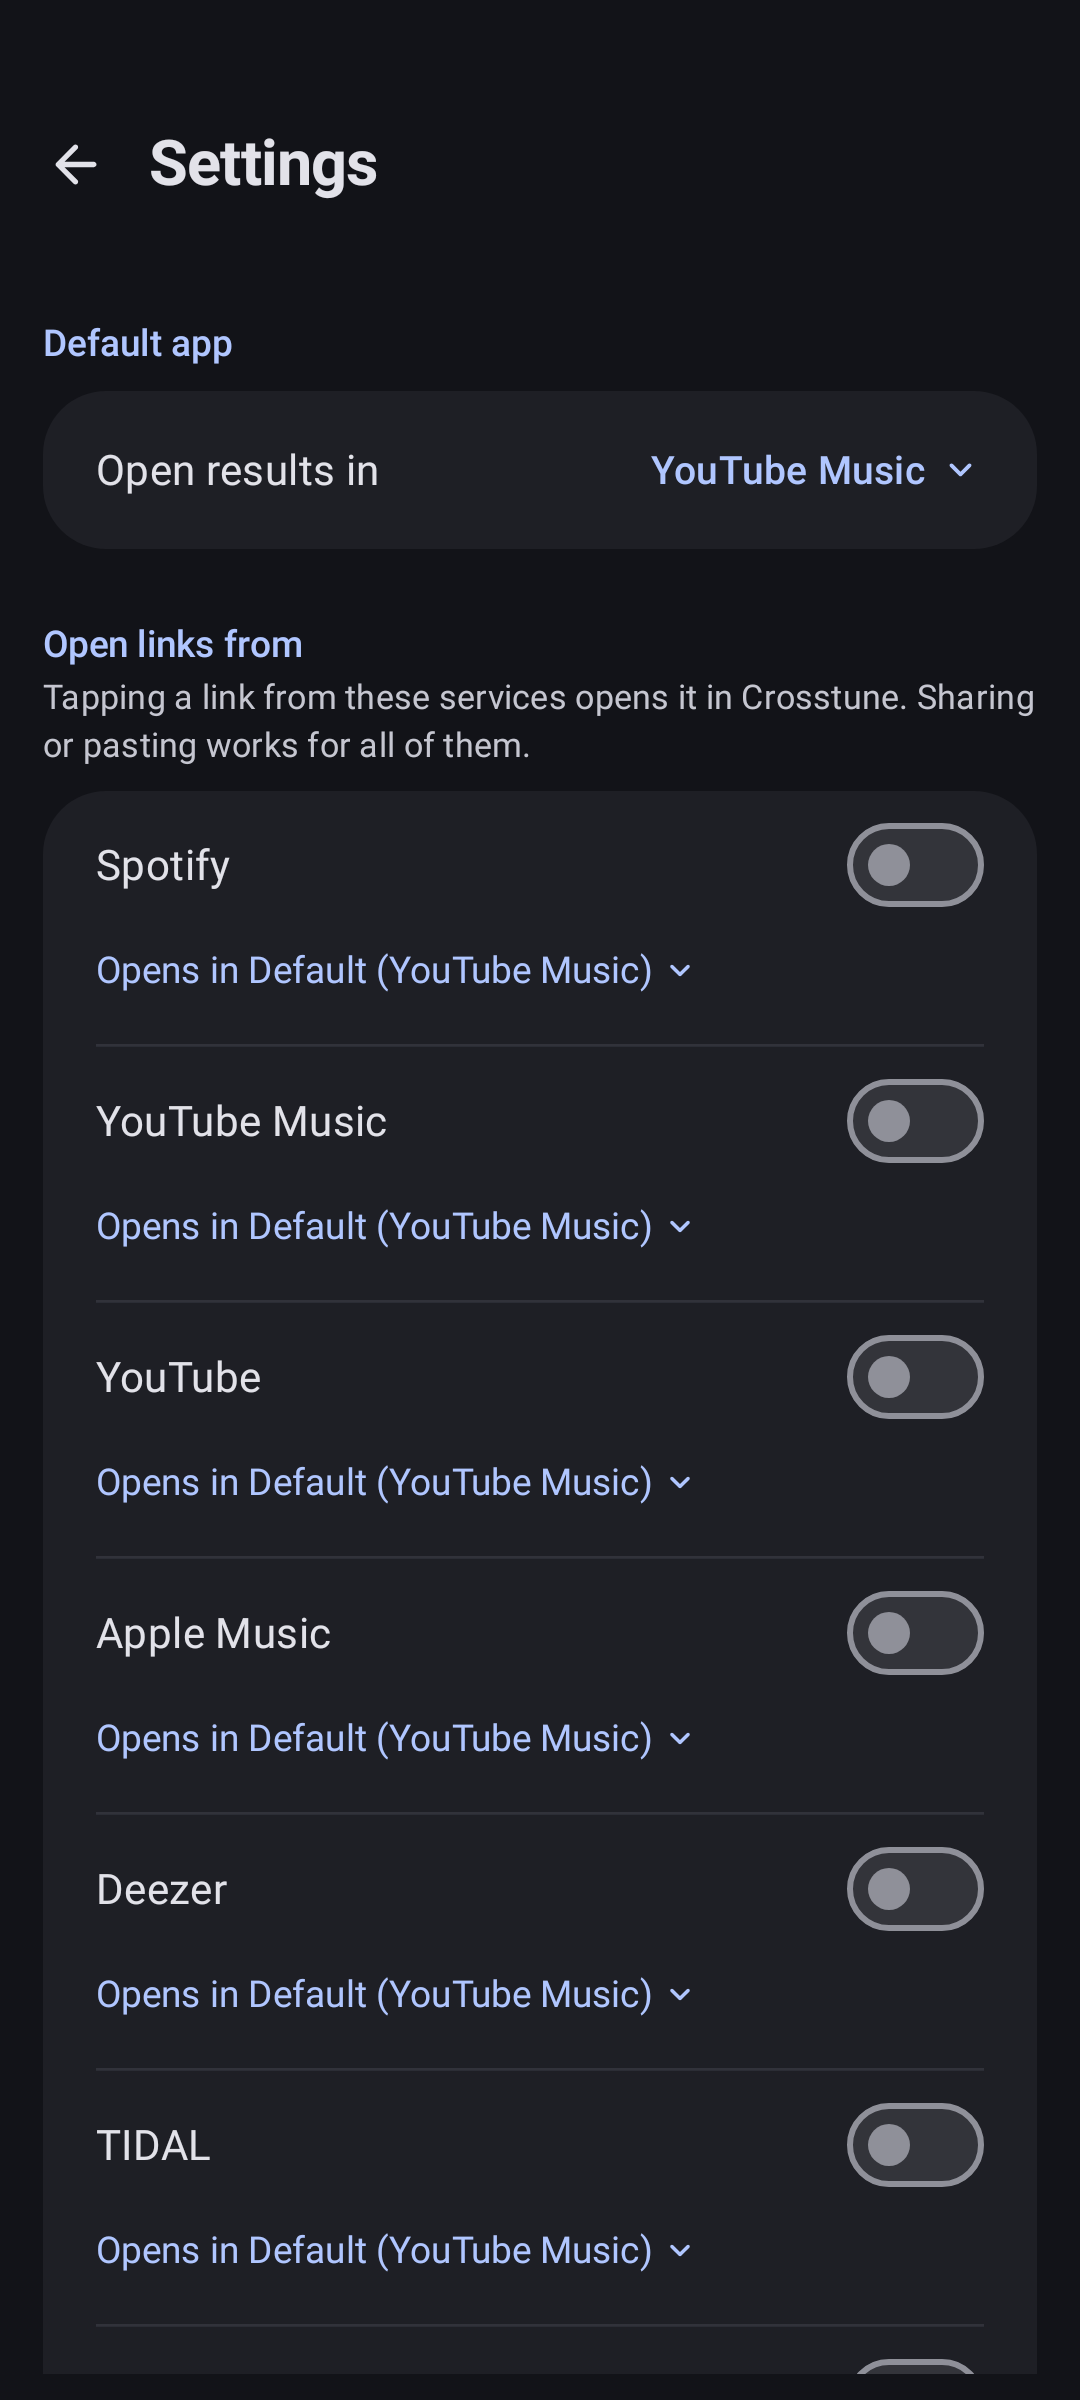
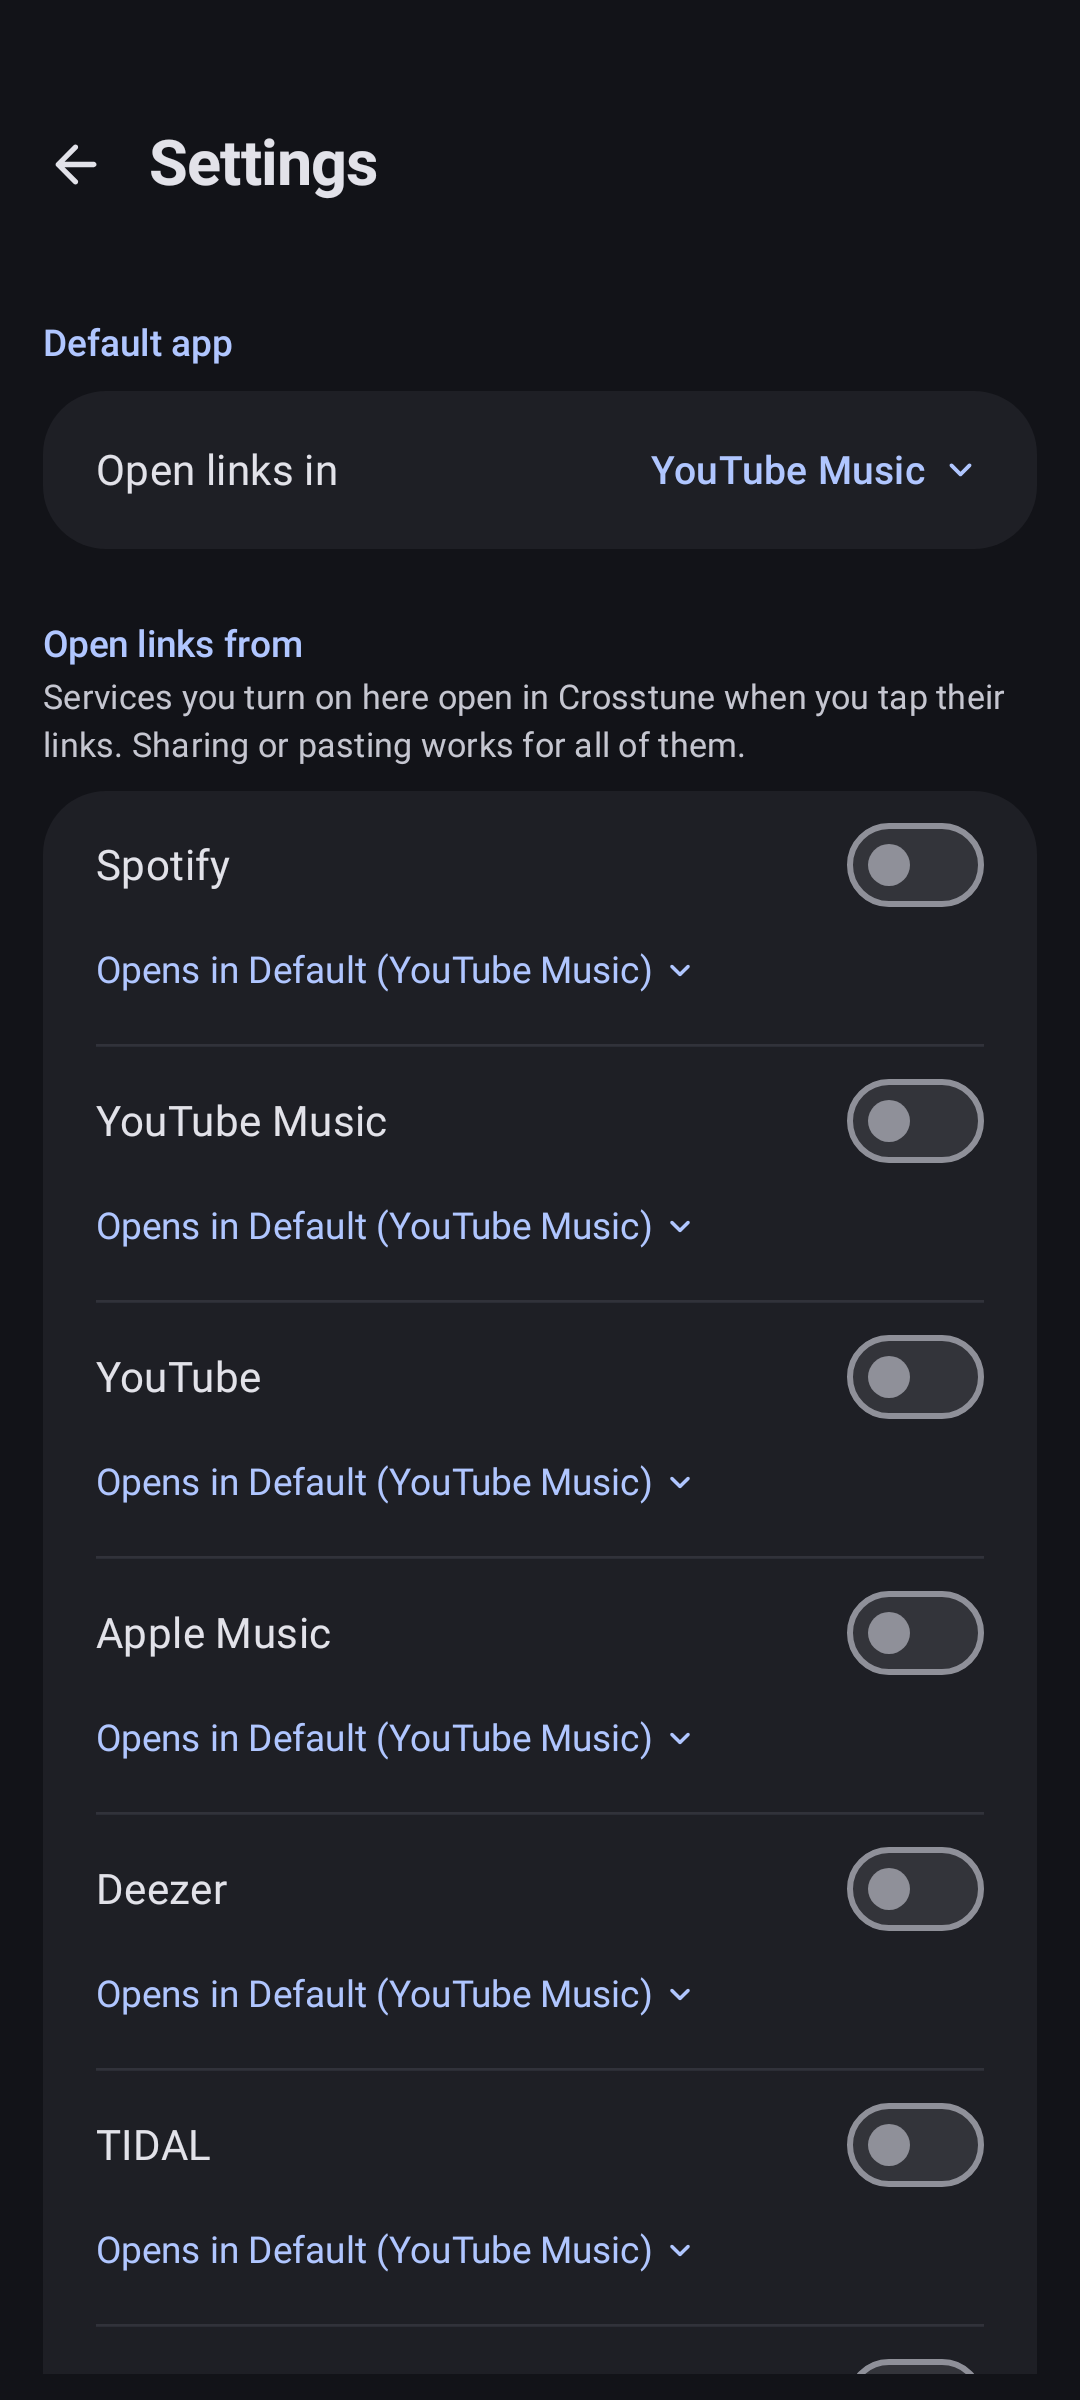
Fix wording that was inaccurate, inconsistent or vague (#34)
- "Open the exact match": the setting also finds albums and artists,
  not only songs; the loading text matches.
- One name for custom destinations: "Other apps and sites".
- "Open links in" for the default app, and "Convert link" for the
  main button, so each says what happens.
- Settings and the link banner say which services open in Crosstune
  and what to allow.
- README: the shortcut is on the app icon's long-press menu,
  troubleshooting names the "Open links from" section, supported links
  list Spotify track IDs and YouTube Music videos, privacy mentions
  cover images.
- Rewrite the store description in the same voice.
- Re-render the screenshots.

Claude-Session: https://claude.ai/code/session_01UwmGSws7oHHVCmfWNCybLv

Changed region(s): [[0.0306, 0.2812, 0.9472, 0.3125], [0.1833, 0.1875, 0.3361, 0.2188]]

diff --git a/README.md b/README.md
@@ -32,16 +32,16 @@ You can also paste a link into Crosstune, or share a link to it from any app.
 - **Works with 9 services**: reads links from Spotify, YouTube Music, YouTube, Apple Music, Deezer, TIDAL, SoundCloud and Bandcamp, and opens them in any of those or in Amazon Music.
 - **A different app per service**: for example, YouTube links go to YouTube Music and everything else goes to Apple Music.
 - **Ask which app to use**: choose an app every time you share a link.
-- **Open the exact song**: Apple Music and Deezer can open the song itself instead of a search.
-- **More apps and sites**: add any app or website that has a search page, like `https://example.com/search?q={query}`.
-- **Shortcuts**: paste with one tap, reopen recent links, or use the Quick Settings tile and the home screen shortcut.
+- **Open the exact match**: Apple Music and Deezer can open the song, album or artist itself instead of a search.
+- **Other apps and sites**: add any app or website that has a search page, like `https://example.com/search?q={query}`.
+- **Shortcuts**: paste with one tap, reopen recent links, use the Quick Settings tile, or long-press the app icon to open a copied link.
 
 ## Supported links
 
 | Service | Works with |
 | --- | --- |
-| Spotify | Songs, albums, artists, playlists, `spotify.link`, `spotify:` URIs |
-| YouTube Music | Songs |
+| Spotify | Songs, albums, artists, playlists, `spotify.link`, `spotify:` URIs, track IDs |
+| YouTube Music | Songs and videos |
 | YouTube | Videos, Shorts, live, `youtu.be` |
 | Apple Music | Songs, albums, artists, playlists |
 | Deezer | Songs, albums, artists, playlists, `link.deezer.com` |
@@ -53,16 +53,16 @@ Crosstune can't read Amazon Music links, YouTube playlists or YouTube channels, 
 
 ## 🛠 Something wrong?
 
-- **Links still open in another app or the browser?** Turn the service on in Crosstune's **Settings**. Then open Android's **Settings → Apps → Crosstune → Open by default**, tap **Add link**, and turn on that service's links.
+- **Links still open in another app or the browser?** In Crosstune's **Settings**, turn the service on under **Open links from**. Then open Android's **Settings → Apps → Crosstune → Open by default**, tap **Add link**, and turn on that service's links.
 - **A link opened in its own app instead?** Crosstune can't read some pages, like a SoundCloud feed, so it hands them to that service's app.
-- **You got a search instead of the song?** Most apps have no public way to find a song without an account, so Crosstune searches for it. For Apple Music and Deezer, turn on **Open the exact song**.
+- **You got a search instead of the song?** Most apps have no public way to find a song without an account, so Crosstune searches for it. For Apple Music and Deezer, turn on **Open the exact match**.
 
 ## Privacy
 
 - No accounts, analytics or ads.
 - History stays on your device.
-- To show a link's title, artist and cover, Crosstune only asks the service the link comes from, using its public page or public API.
-- With **Open the exact song** on, the title and artist also go to [Apple's](https://performance-partners.apple.com/search-api) or [Deezer's](https://developers.deezer.com/api) search API.
+- To show a link's title, artist and cover, Crosstune only asks the service the link comes from, using its public page or public API. Covers load from that service's image servers.
+- With **Open the exact match** on, the title and artist also go to [Apple's](https://performance-partners.apple.com/search-api) or [Deezer's](https://developers.deezer.com/api) search API.
 
 <details>
 <summary><b>Verify your download</b></summary>
